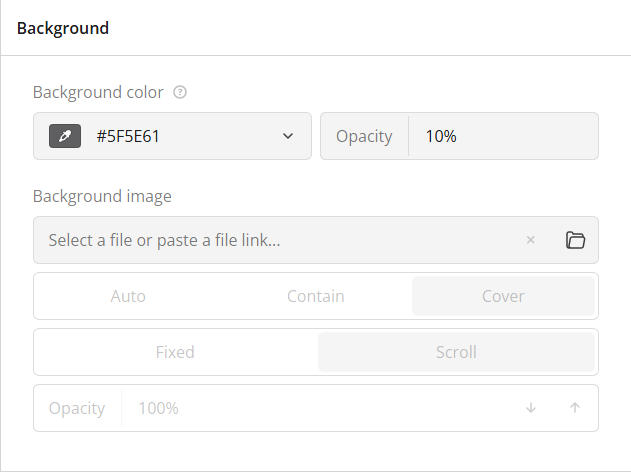
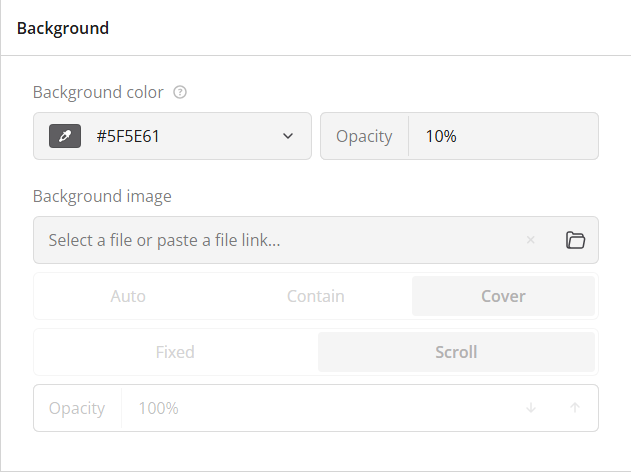
update etalons and test theme

Changed region(s): [[0.7528, 0.6229, 0.8431, 0.6525], [0.6926, 0.7415, 0.7528, 0.7712]]

diff --git a/packages/survey-creator-core/src/themes/test.ts b/packages/survey-creator-core/src/themes/test.ts
@@ -622,13 +622,13 @@ export default {
     "--sjs2-color-component-action-neutral-quaternary-disabled-icon": "var(--sjs2-color-fg-neutral-primary-disabled)",
     "--sjs2-color-component-action-neutral-quaternary-disabled-label": "var(--sjs2-color-fg-neutral-primary-disabled)",
     "--sjs2-color-component-formbox-action-default-bg": "var(--sjs2-color-bg-neutral-tertiary)",
-    "--sjs2-color-component-formbox-action-default-icon": "var(--sjs2-color-fg-neutral-primary-muted)",
+    "--sjs2-color-component-formbox-action-default-icon": "rgb(66, 65, 70)",
     "--sjs2-color-component-formbox-action-default-label": "var(--sjs2-color-fg-neutral-primary)",
     "--sjs2-color-component-formbox-action-hovered-bg": "var(--sjs2-color-bg-neutral-tertiary-dim)",
     "--sjs2-color-component-formbox-action-hovered-icon": "var(--sjs2-color-fg-neutral-primary-muted)",
     "--sjs2-color-component-formbox-action-hovered-label": "var(--sjs2-color-fg-neutral-primary)",
     "--sjs2-color-component-formbox-action-pressed-bg": "var(--sjs2-color-bg-neutral-tertiary-dim)",
-    "--sjs2-color-component-formbox-action-pressed-icon": "var(--sjs2-color-fg-neutral-primary-muted)",
+    "--sjs2-color-component-formbox-action-pressed-icon": "rgba(66, 65, 70, 0.5)",
     "--sjs2-color-component-formbox-action-pressed-label": "var(--sjs2-color-fg-neutral-primary)",
     "--sjs2-color-component-formbox-action-disabled-bg": "rgba(from var(--sjs2-color-bg-neutral-tertiary) r g b / var(--sjs2-opacity-hidden))",
     "--sjs2-color-component-formbox-action-disabled-icon": "var(--sjs2-color-fg-neutral-primary-disabled)",